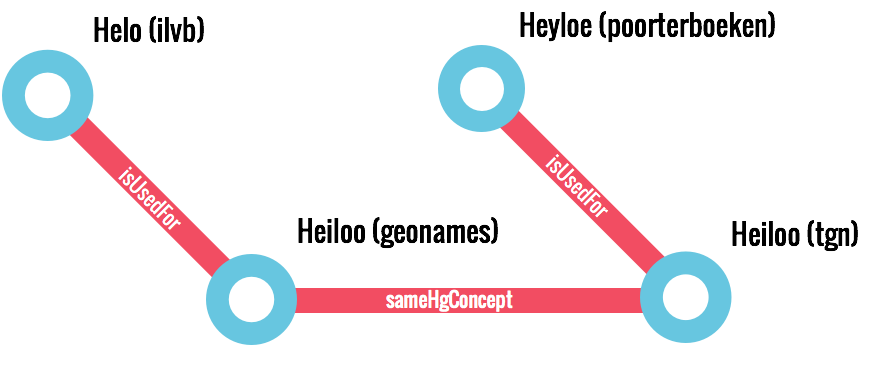
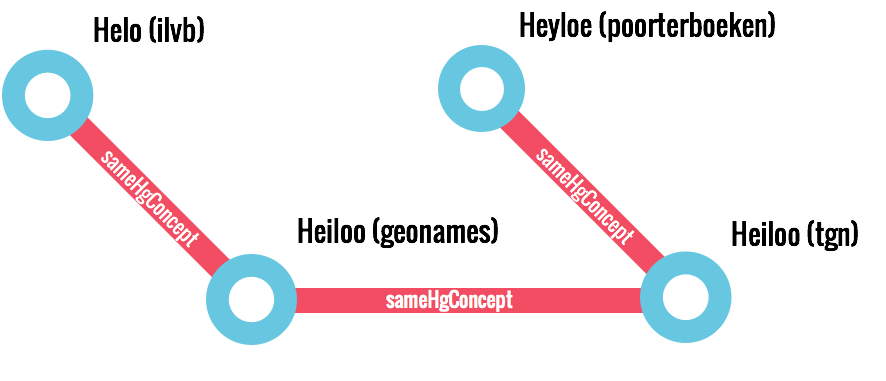
articles in line with api 2.0

Changed region(s): [[0.6095, 0.3753, 0.7314, 0.6352], [0.0914, 0.4042, 0.2438, 0.6352]]

diff --git a/css/style.scss b/css/style.scss
@@ -195,6 +195,7 @@ header .row{
   background-color:#fff;
   padding-top:20px;
   padding-bottom:20px;
+  margin-top: 100px;
   font-size:12px;
   text-align: center;
 }

diff --git a/_wat-hoe/watvoordata.md b/_wat-hoe/watvoordata.md
@@ -9,7 +9,7 @@ Wat ErfGeo is, laat zich het best uitleggen door de data die het bevat.
 
 ##Sircxsee en andere toponiemen
 
-In oude bronnen kom je soms plaatsnamen tegen waar je als mens toch even over na moet denken. Cuelborch, dat zal Culemborch zijn. Gaude is Gouda, Haghe Den Haag, Swol Zwolle en Sircxsee, dat is [Zierikzee](http://thesaurus.erfgeo.nl/hgconcept/tgn/7030107). Voor een computer wordt dat al erg lastig. En dat Weerdt op Valkenswaard slaat, Traiecto op Maastricht, Vorcum op Woudrichem en Buscoducis op Den Bosch, dat is voor zowel mens als machine zonder achterliggende kennis lastig te doorzien.
+In oude bronnen kom je soms plaatsnamen tegen waar je als mens toch even over na moet denken. Cuelborch, dat zal Culemborch zijn. Gaude is Gouda, Haghe Den Haag, Swol Zwolle en Sircxsee, dat is [Zierikzee](http://thesaurus.erfgeo.nl/hgconcept/?id=http://vocab.getty.edu/tgn/7030107). Voor een computer wordt dat al erg lastig. En dat Weerdt op Valkenswaard slaat, Traiecto op Maastricht, Vorcum op Woudrichem en Buscoducis op Den Bosch, dat is voor zowel mens als machine zonder achterliggende kennis lastig te doorzien.
 
 Dankzij datasets als de rekeningen van de Illustre Lieve Vrouwe Broederschap, Militieregisters en het herkomstonderzoek van Simon Hart kent ErfGeo tienduizenden plaatsnaamvarianten. Alleen voor Zierikzee zijn het er al bijna twintig. Omdat we uit veel bronnen ook de periode kunnen halen waarin een naamvariant gebruikt werd, kan je mooi zien [wanneer](http://www.islandsofmeaning.nl/projects/names-in-time/?uri=http://vocab.getty.edu/tgn/7030107) welke variant in zwang was.
 
@@ -20,7 +20,7 @@ Dankzij datasets als de rekeningen van de Illustre Lieve Vrouwe Broederschap, Mi
 
 De Atlas van de verstedelijking in Nederland toont van de 35 grootste steden van het land hoe zij in de loop der eeuwen expandeerden. De voor het boek gemaakte geometrieën zijn opgenomen in ErfGeo.
 
-Van [Zwolle](http://thesaurus.erfgeo.nl/hgconcept/tgn/7007077) zijn bijvoorbeeld geometrieën uit 1200, 1350, 1500, 1650, 1900, 1950, 1980 en 2010 beschikbaar. 
+Van [Zwolle](http://thesaurus.erfgeo.nl/hgconcept/?id=http://vocab.getty.edu/tgn/7007077) zijn bijvoorbeeld geometrieën uit 1200, 1350, 1500, 1650, 1900, 1950, 1980 en 2010 beschikbaar. 
 
 [![Zwolle](/images/zwolle.png)](http://nieneb.github.io/verstedelijking/)
 
@@ -28,7 +28,7 @@ Van [Zwolle](http://thesaurus.erfgeo.nl/hgconcept/tgn/7007077) zijn bijvoorbeeld
 
 In de Franse tijd is ook Nederland kortstondig ingedeeld in departementen. Bij een nieuwe indeling in 1811 werden de departementen vooral vernoemd naar waterlopen: Monden van de Rijn, Monden van de Schelde, Westereems, Zuiderzee, Boven-IJssel, etc. Alleen Friesland hield haar oude naam.
 
-Behalve de ligging der departementen laten [de geometrieën](http://erfgeo.nl/thesaurus/#search=* type=hg:Departement) ook mooi de toenmalige kustlijn zien. Zo zie je in de kop van departement Zuiderzeé het eiland Wieringen nog liggen.
+Behalve de ligging der departementen laten de geometrieën ook mooi de toenmalige kustlijn zien. Zo zie je in de kop van departement Zuiderzeé het eiland Wieringen nog liggen. Je kan alle departementen tevoorschijn halen door naar de [viewer](http://erfgeo.nl/thesaurus/) te gaan en `*&type=hg:Departement` in het zoekboxje te typen.
 
 ![departementen](/images/departementen.png)
 
@@ -62,7 +62,7 @@ Ook hier geldt dat we zo een basis hebben waaraan we historische straatnamen kun
 
 De BAG (Basis Administratie Gebouwen en Adressen) bevat, zoals de naam al zegt, alle gebouwen en alle adressen van Nederland. Adressen zijn aangegeven met een puntlocatie, van elk gebouw is een polygoon beschikbaar.
 
-Aardig is dat de BAG niet alleen gegevens over de huidige stand van zaken bevat. Van elk pand is een bouwperiode opgenomen. Dit is verre van precies, en die precisie gaat bij bouwwerken van voor pakweg 1800 helemaal verloren, maar vanwege de landelijke dekking kan dit toch inzicht geven in de historie.
+Aardig is dat de BAG niet alleen gegevens over de huidige stand van zaken bevat - van elk pand is de bouwperiode opgenomen.
 
 ##Buitenland
 

diff --git a/_wat-hoe/pits-concepten-relaties.md b/_wat-hoe/pits-concepten-relaties.md
@@ -9,9 +9,9 @@ ErfGeo bevat data uit vele bronnen. Elk van die bronnen kan informatie bevatten 
 
 ##Plaats in Tijd (PiT)
 
-Een Plaats in Tijd, of Place in Time zo u wilt, beschrijft dus een straat, plaats, adres, gebouw, departement, etc. Elke PiT heeft een in ieder geval een `id`, een `name` en een `type`, en kan verder een `geometry`, een startdatum (`hasBeginning`), een einddatum (`hasEnd`) en een `uri` bevatten.
+Een Plaats in Tijd, of Place in Time zo u wilt, beschrijft dus een straat, plaats, adres, gebouw, departement, etc. Elke PiT heeft in ieder geval een `type` waarin vermeld wordt waarmee we van doen hebben, een `id` (dat kan ook een uri zijn), een `name`, wellicht een `geometry` en waarschijnlijk ook een periode (`validSince` en `validUntil`).
 
-Meer dan bronnen met PiTs zit er niet in ErfGeo. Vaak zijn er meerdere PiTs die dezelfde plaats beschrijven. Een plaats als Amsterdam wordt door tientallen PiTs beschreven.
+Meer dan bronnen met PiTs zit er niet in ErfGeo. Vaak zijn er meerdere PiTs die dezelfde plaats beschrijven. Een plaats als [Amsterdam](http://thesaurus.erfgeo.nl/hgconcept/?id=http://vocab.getty.edu/tgn/7006952) wordt door tientallen PiTs beschreven.
 
 ##Relaties
 
@@ -19,7 +19,7 @@ Tussen PiTs kunnen relaties worden gelegd. Zo kan je bijvoorbeeld zeggen dat de 
 
 ##HgConcepten
 
-PiTs waarvan is aangegeven dat ze over dezelfde plaats gaan, met andere woorden PiTs die aan elkaar verbonden zijn met `hg:sameHgConcept` of `hg:isUsedFor` relaties, vormen samen een HgConcept. Die tweede relatie geeft aan dat de ene PiT een naam bevat die - bijvoorbeeld gedurende een bepaalde periode - werd of wordt gebruikt voor een PiT die een fysieke plaats beschrijft.
+PiTs waarvan is aangegeven dat ze over dezelfde plaats gaan, met andere woorden PiTs die aan elkaar verbonden zijn met `hg:sameHgConcept` relaties, vormen samen een HgConcept. Die tweede relatie geeft aan dat de ene PiT een naam bevat die - bijvoorbeeld gedurende een bepaalde periode - werd of wordt gebruikt voor een PiT die een fysieke plaats beschrijft.
 
 ![Het HgConcept Heiloo](/images/klont.png)
 
